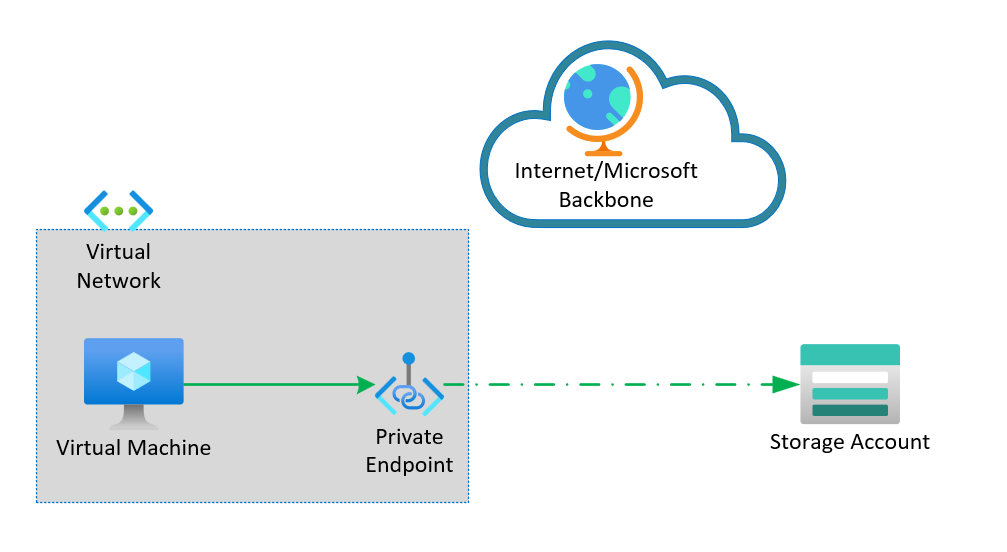
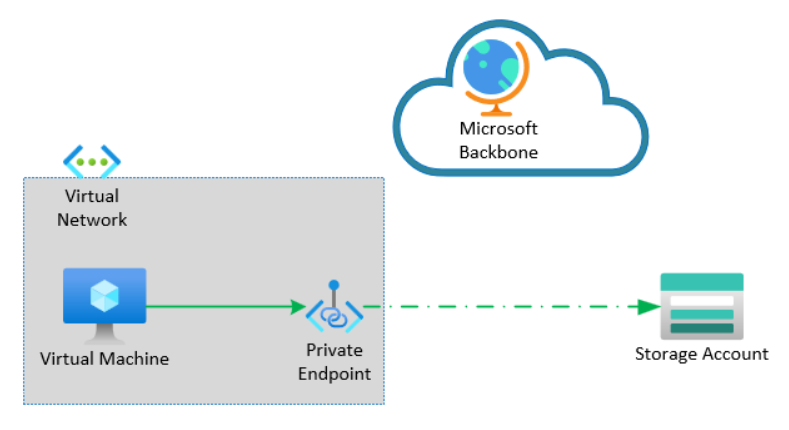
remove internet from overview images

Changed region(s): [[0.0304, 0.0302, 0.9734, 0.9674]]

diff --git a/content/networking/private-endpoints/overview.md b/content/networking/private-endpoints/overview.md
@@ -6,6 +6,8 @@ This overview focuses on the simple scenario of a Storage Account and Private En
 
 ## Connectivity
 
+When thinking about the connectivity scenarios with Private Endpoints, remember that Private Endpoints are only used for inbound traffic. The following diagrams show traffic flows for an Azure Storage Account without and with Private Endpoints.
+
 ### **Connectivity Without Private Endpoints**
 
 ![Storage Account with No Private Endpoints](img/storage-account-no-pe.png)
